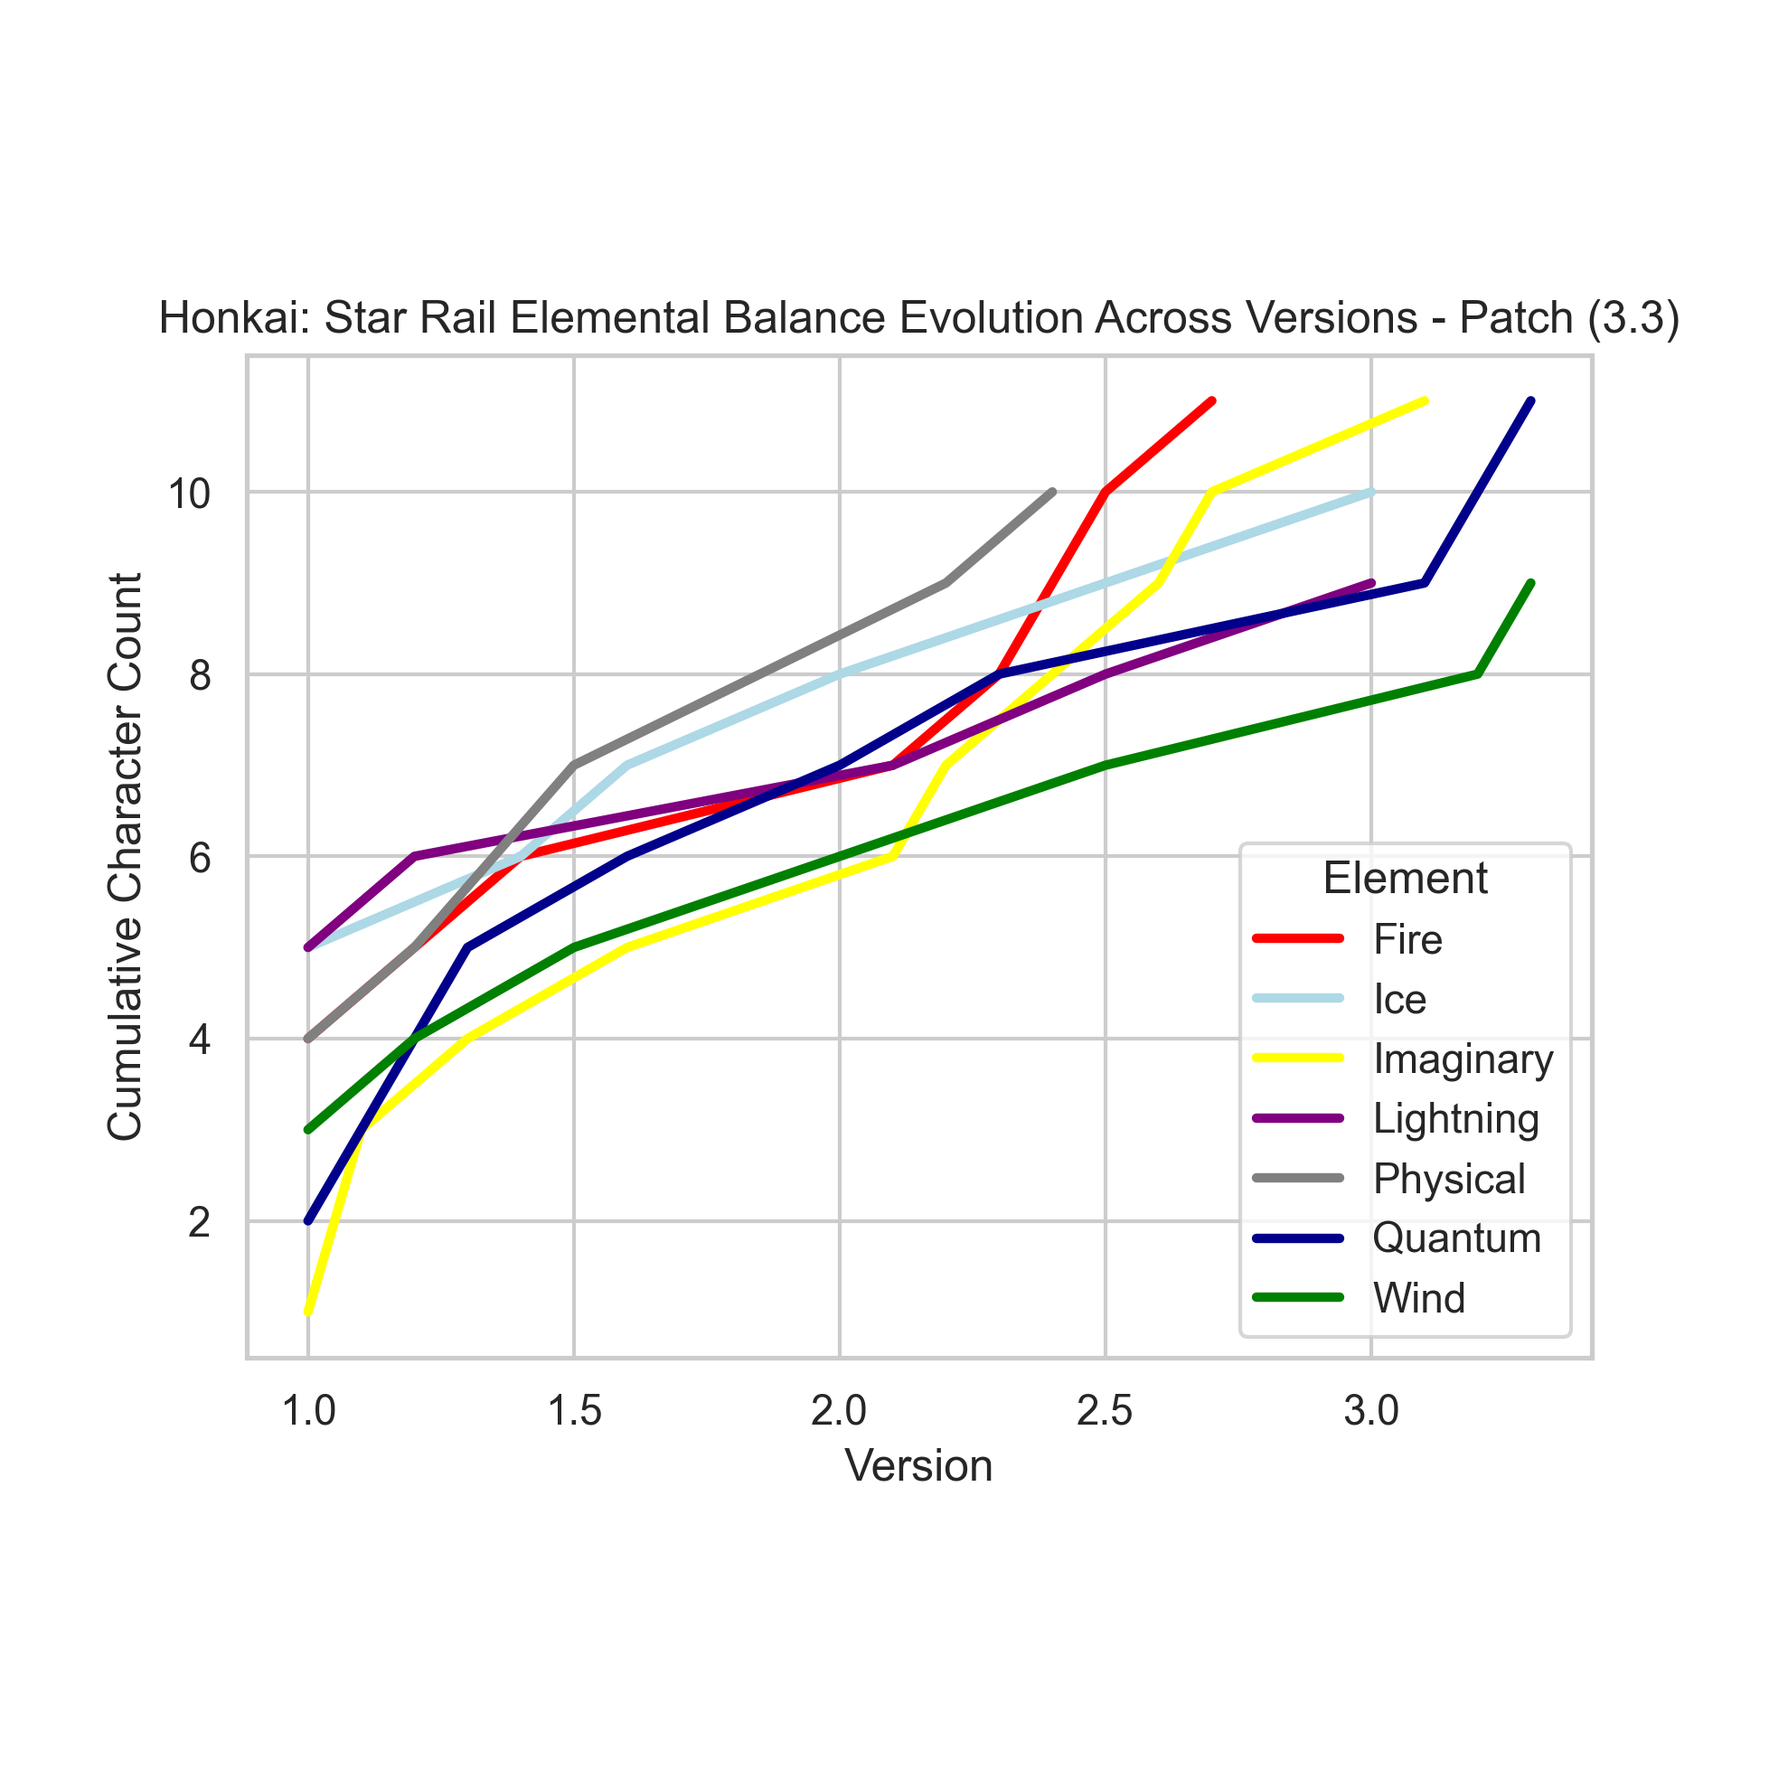
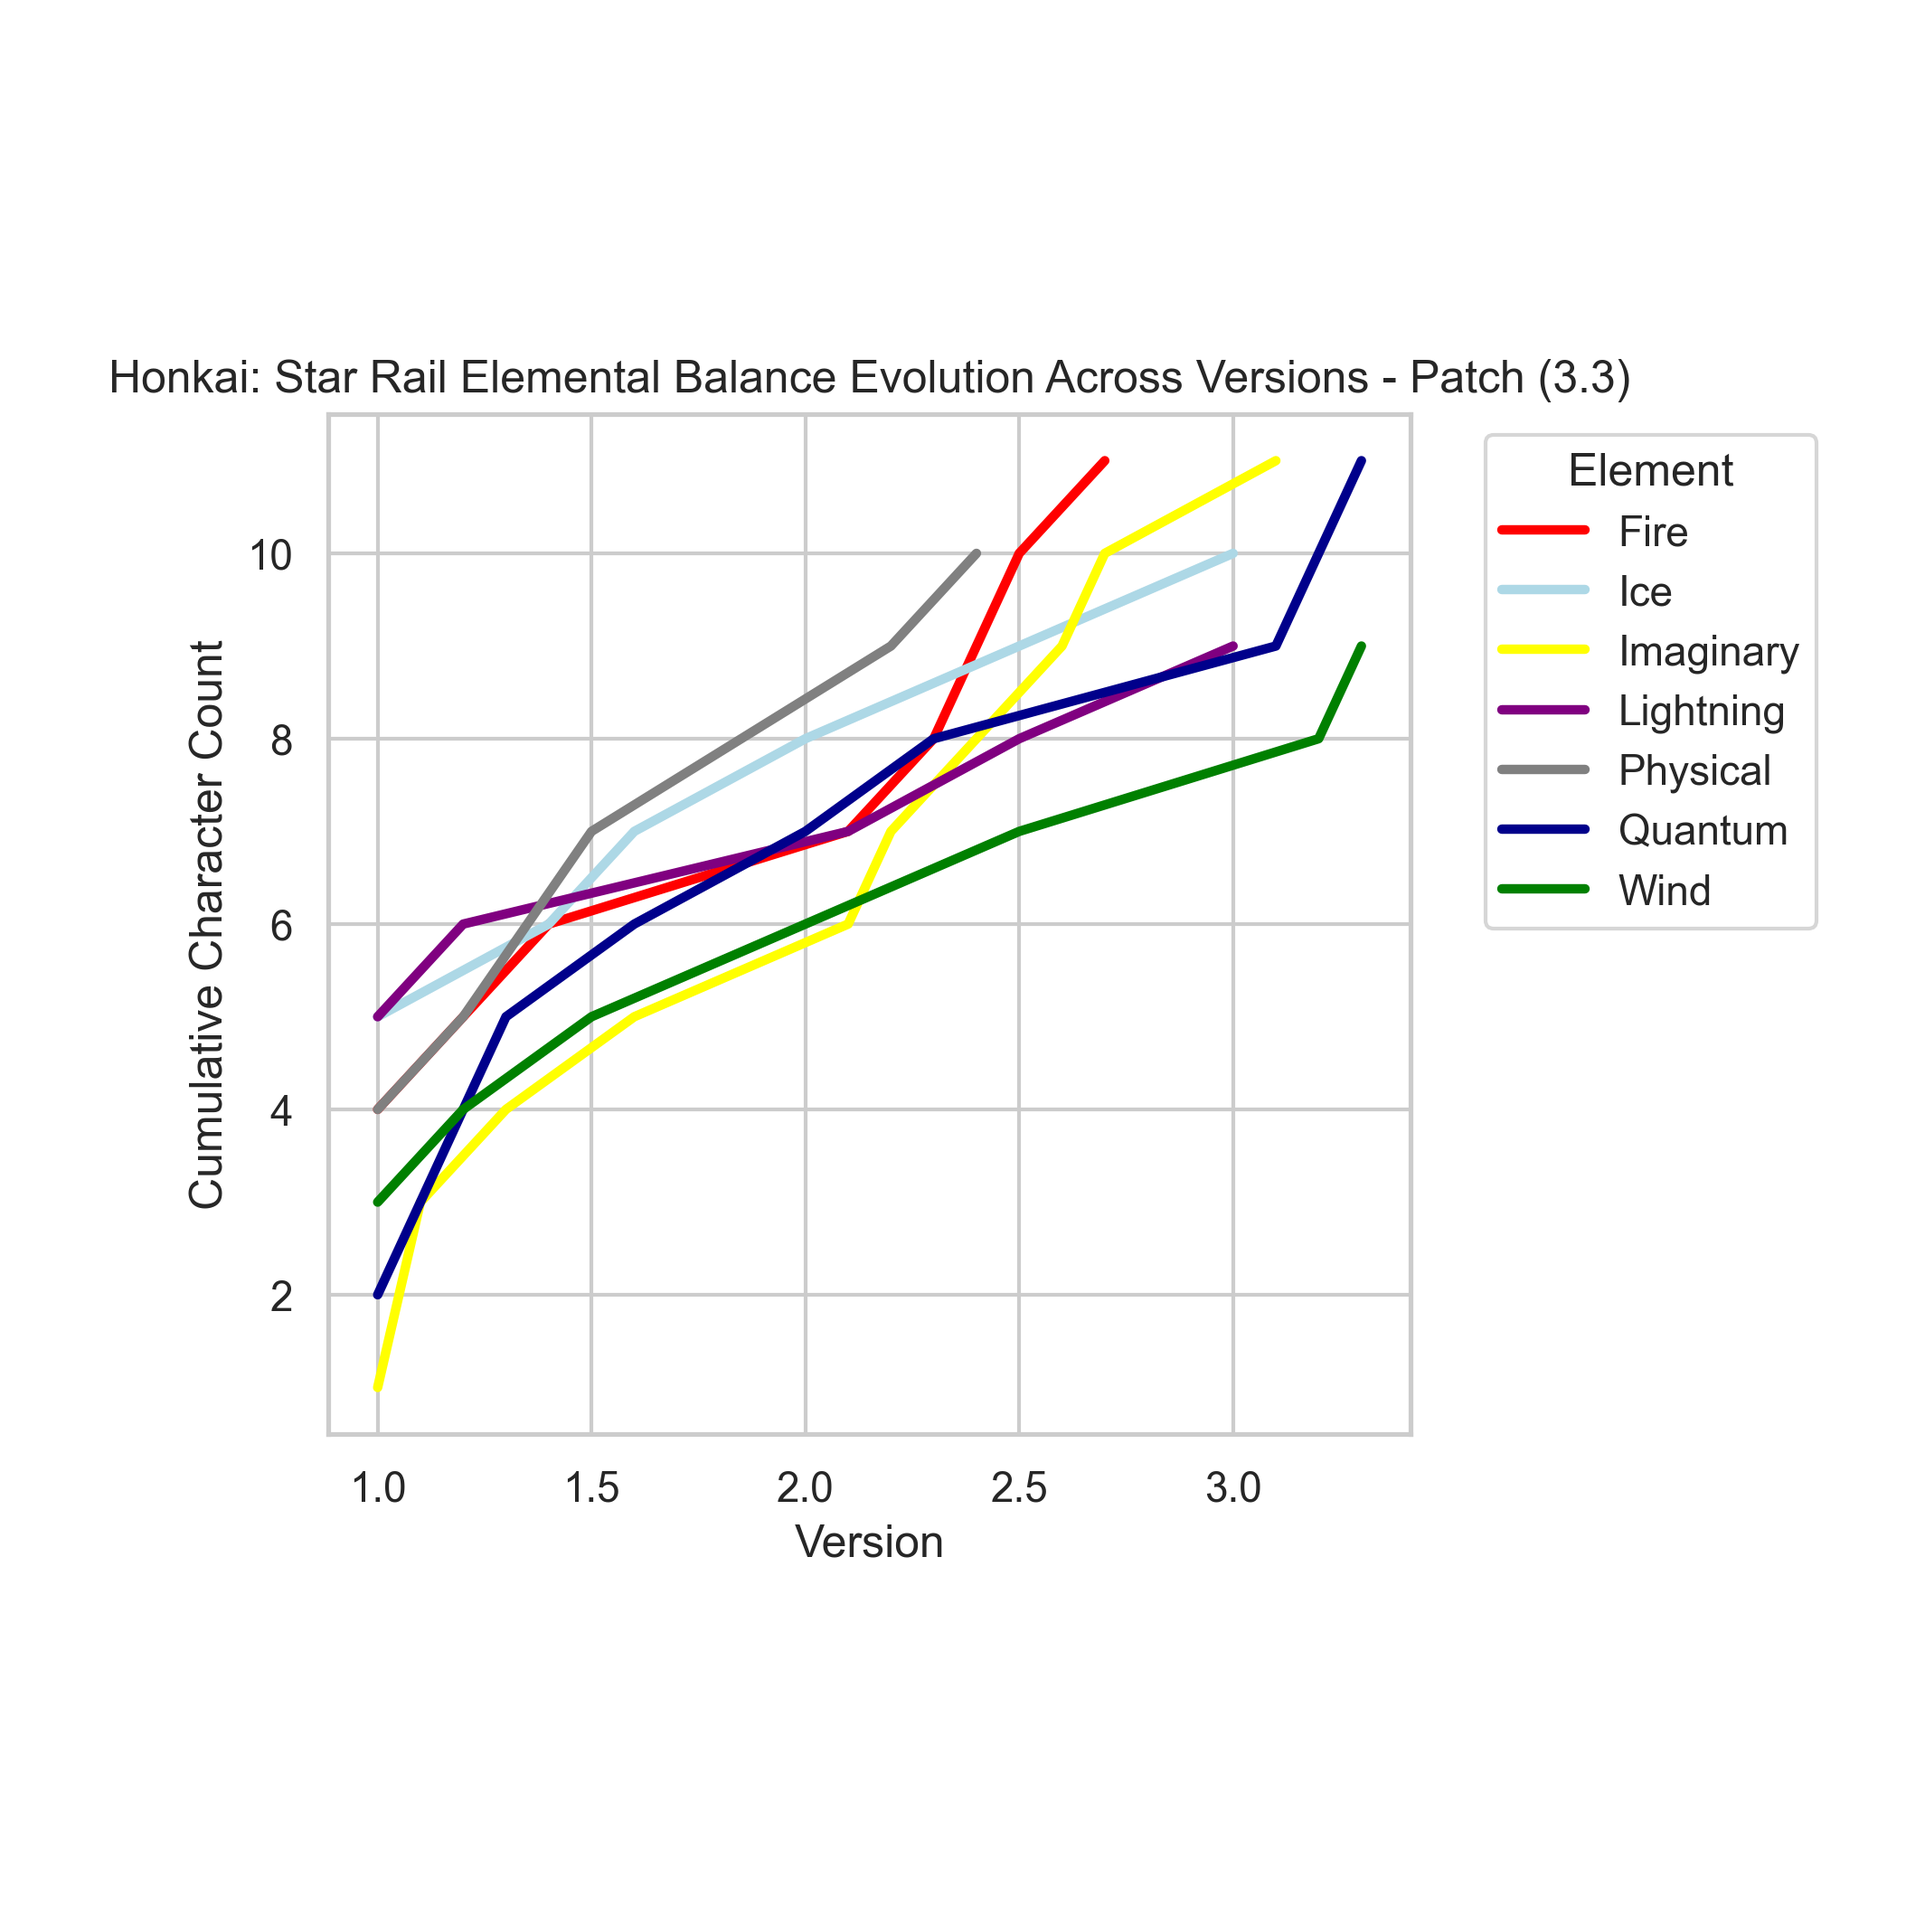
feat: update visualizations and enhance plotting functions for element and path balance evolution

diff --git a/hsrws/visual/plotting/plotting_line.py b/hsrws/visual/plotting/plotting_line.py
@@ -40,7 +40,8 @@ def plot_element_balance_evolution(
         linewidth=2.5,
     )
 
-    ax.legend(title="Element")
+    # Place legend outside the plot area to the right
+    ax.legend(title="Element", bbox_to_anchor=(1.05, 1), loc="upper left")
     ax.set_xlabel("Version")
     ax.set_ylabel("Cumulative Character Count")
 
@@ -49,6 +50,9 @@ def plot_element_balance_evolution(
         title += f" - {patch_version}"
 
     ax.set_title(title)
+    
+    # Adjust layout to make room for the legend
+    plt.tight_layout()
 
     return fig
 
@@ -83,7 +87,8 @@ def plot_path_balance_evolution(
         linewidth=2.5,
     )
 
-    ax.legend(title="Path")
+    # Place legend outside the plot area to the right
+    ax.legend(title="Path", bbox_to_anchor=(1.05, 1), loc="upper left")
     ax.set_xlabel("Version")
     ax.set_ylabel("Cumulative Character Count")
 
@@ -92,5 +97,8 @@ def plot_path_balance_evolution(
         title += f" - {patch_version}"
 
     ax.set_title(title)
+    
+    # Adjust layout to make room for the legend
+    plt.tight_layout()
 
     return fig

diff --git a/docs/VISUAL.md b/docs/VISUAL.md
@@ -2,10 +2,12 @@
 
 ![Path and Rarity Distribution](../hsrws/visual/visual_img/path_rarity_distribution.png)
 
+![Rarity Element Distribution](../hsrws/visual/visual_img/rarity_element_distribution.png)
+
 ![Element Balance Evolution](../hsrws/visual/visual_img/element_balance_evolution.png)
 
-![Version Release Timeline](../hsrws/visual/visual_img/version_release_timeline.png)
+![Path Balance Evolution](../hsrws/visual/visual_img/path_balance_evolution.png)
 
-![Rarity Element Distribution](../hsrws/visual/visual_img/rarity_element_distribution.png)
+![Version Release Timeline](../hsrws/visual/visual_img/version_release_timeline.png)
 
 ![Element Path Heatmap](../hsrws/visual/visual_img/element_path_heatmap.png)
